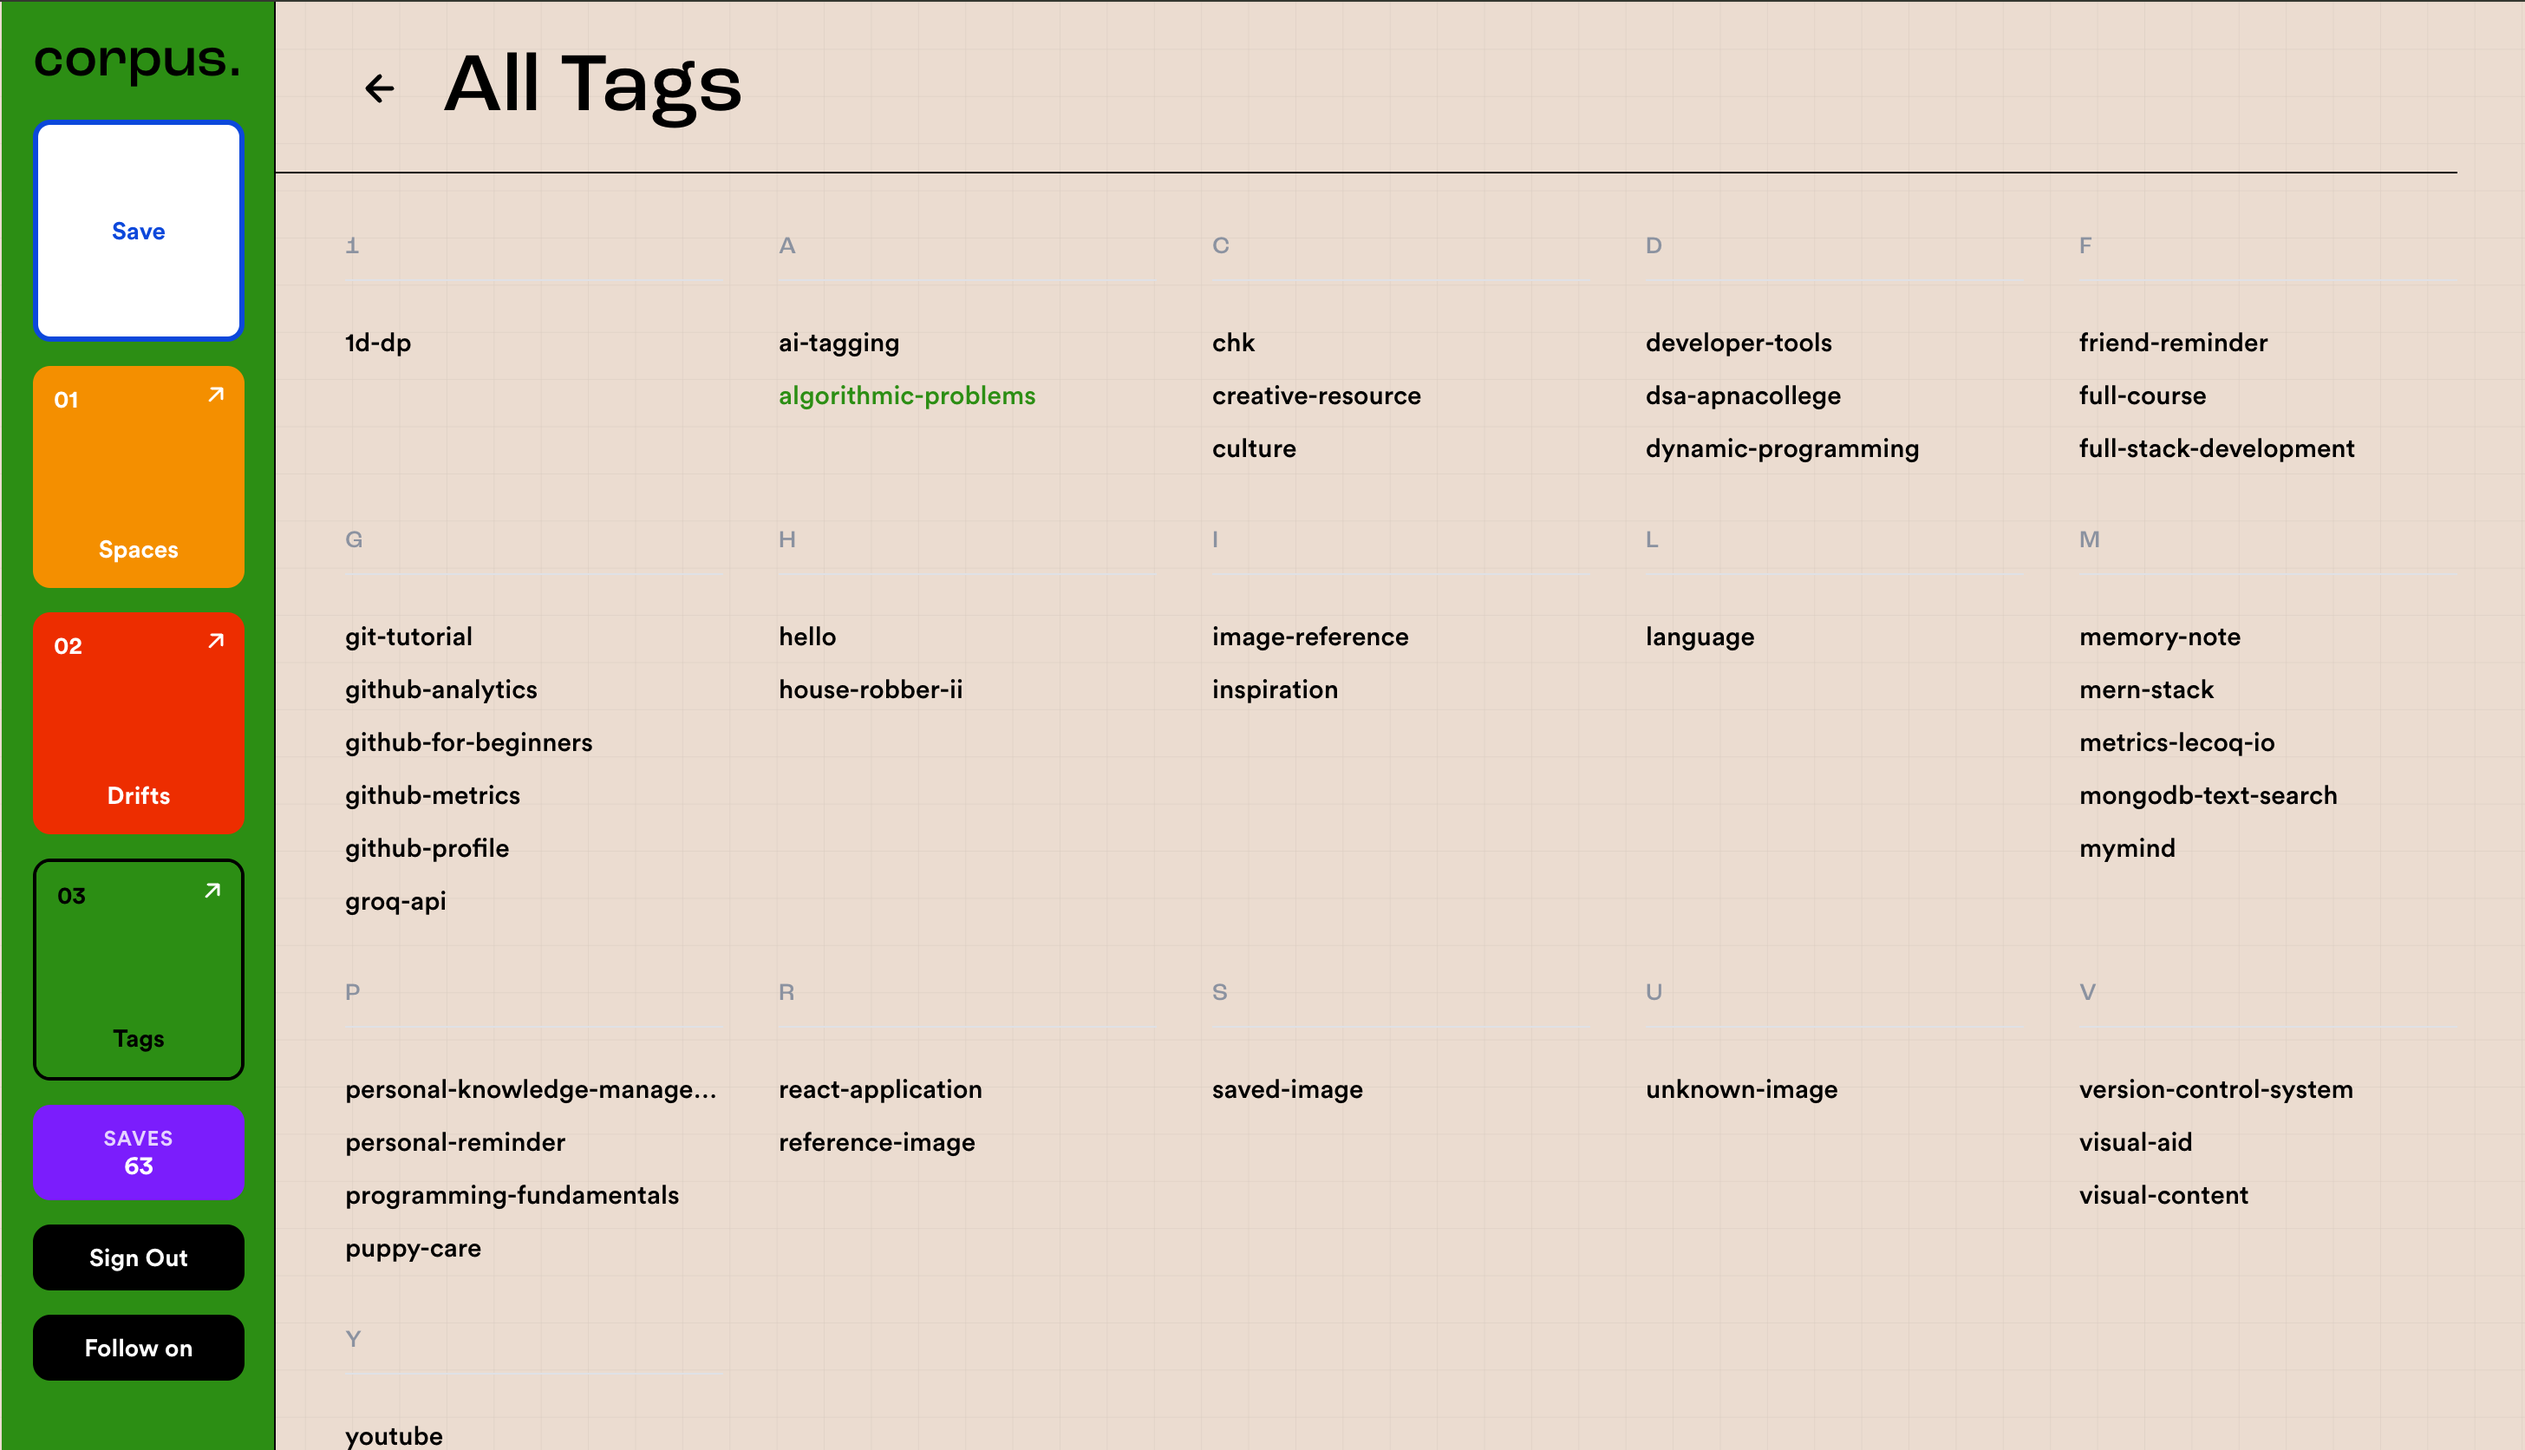
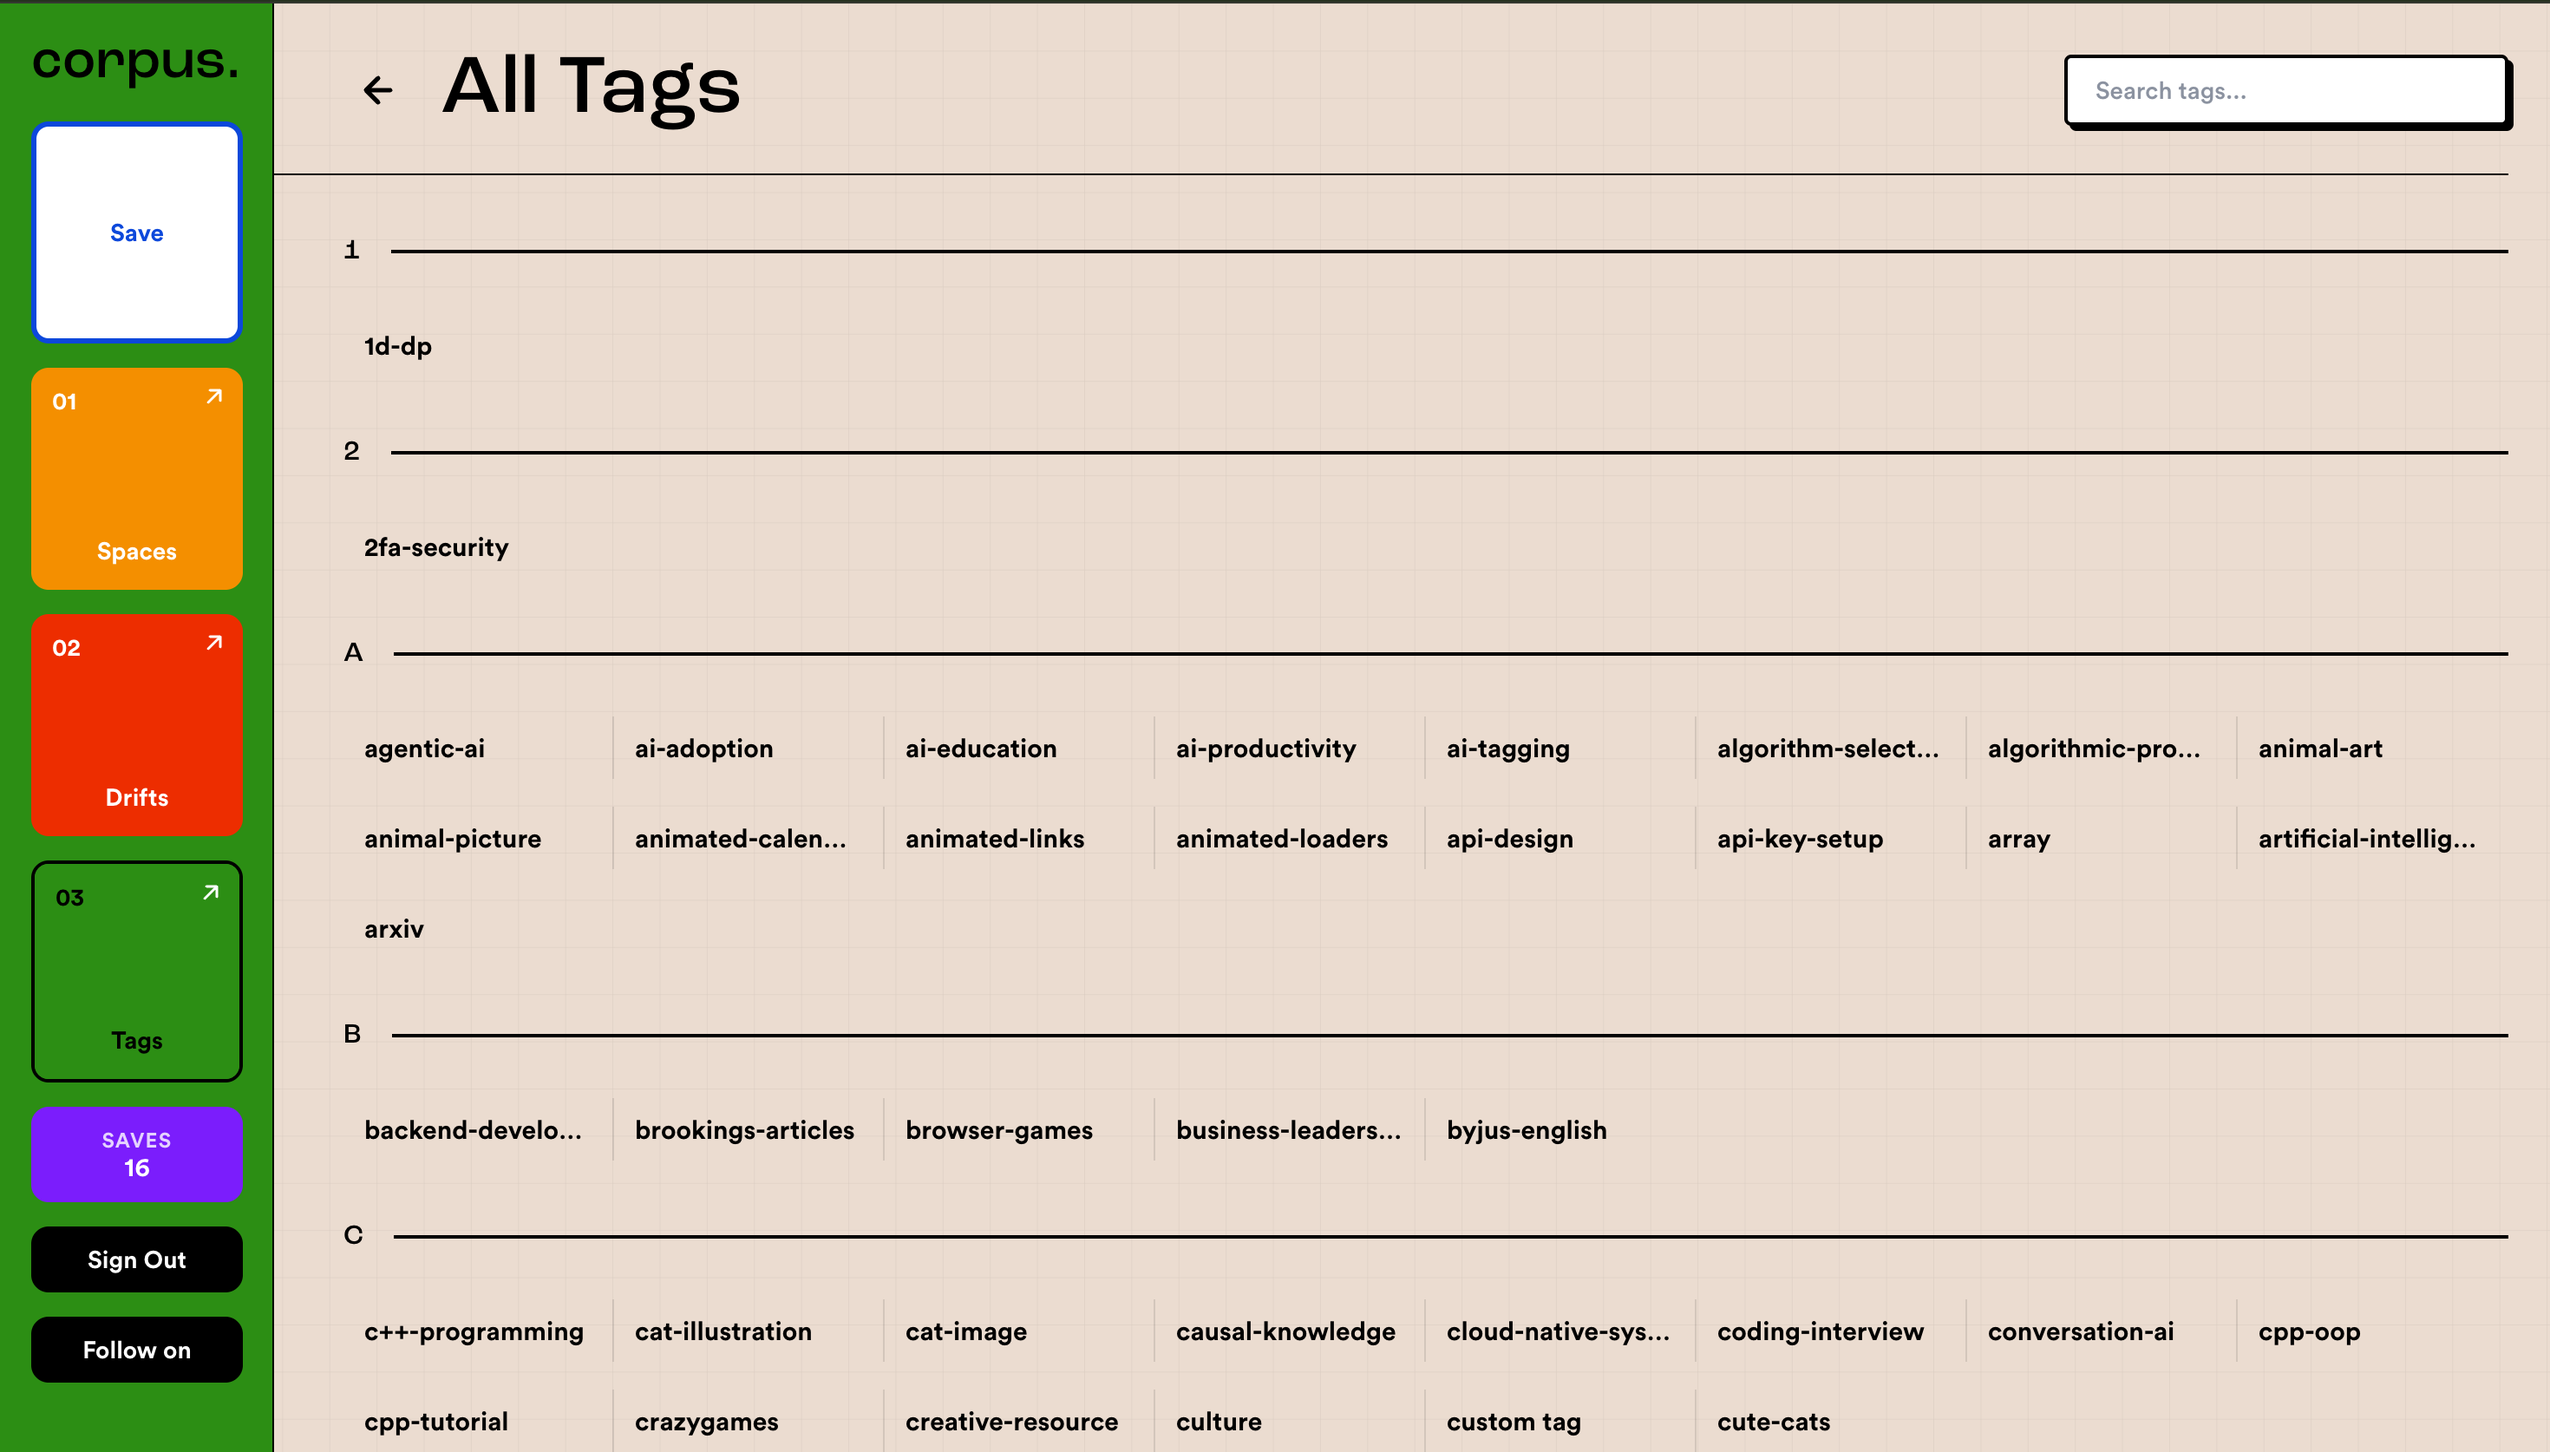
updated readme

diff --git a/README.md b/README.md
@@ -2,7 +2,7 @@
 
 > Your personal knowledge base — save anything, find it later.
 
-Corpus (a.k.a. "mymind") is a full-stack personal knowledge management app. Save links, notes, and images from anywhere on the web, and let AI organize them for you — so nothing you find ever gets lost again.
+Corpus is a full-stack personal knowledge management app. Save links, notes, and images from anywhere on the web, and let AI organize them for you — so nothing you find ever gets lost again.
 
 
 
